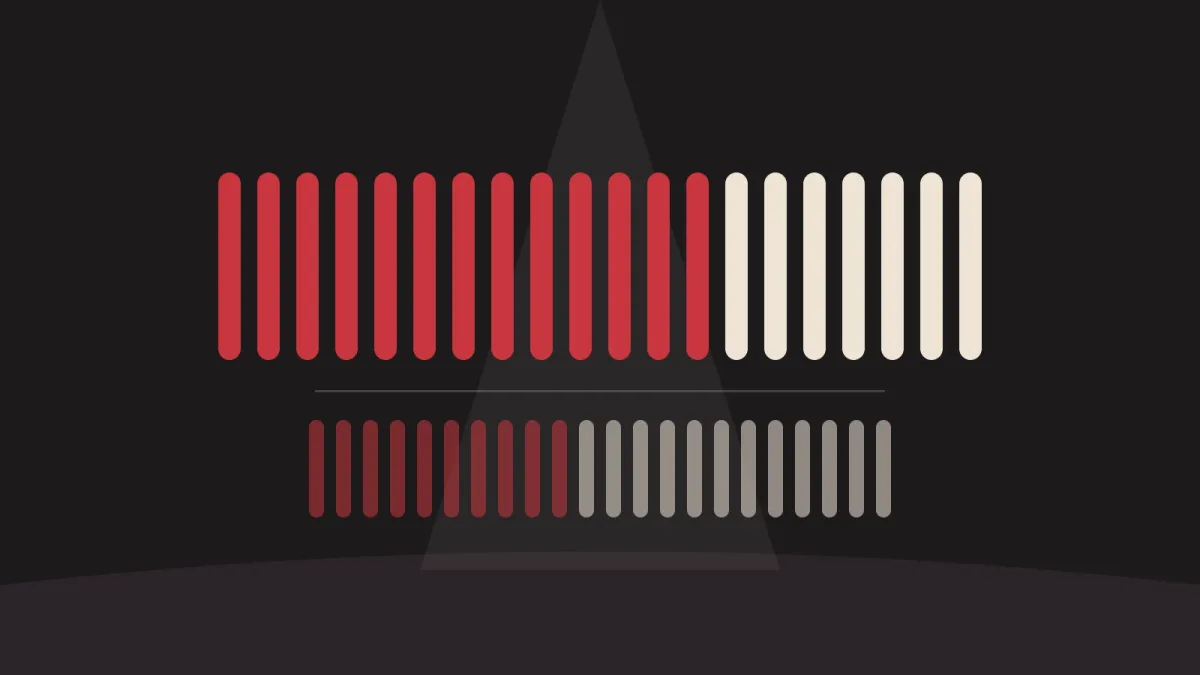
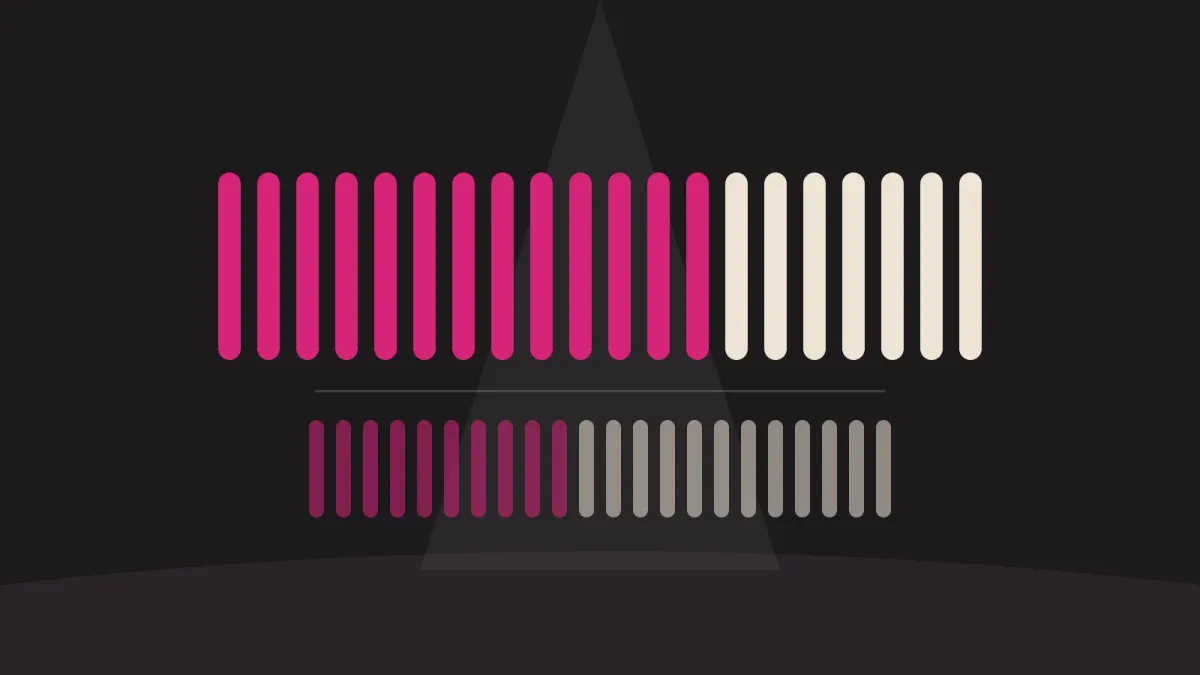
LiSA 小巨蛋歌單文章加入洋紅白名單，恢復洋紅封面與 accentColor

Changed region(s): [[0.1542, 0.2489, 0.6167, 0.5289], [0.2467, 0.6222, 0.4933, 0.7778]]

diff --git a/assets/main.min.js b/assets/main.min.js
@@ -1,4 +1,4 @@
-var x="/data/posts.json",oe={"AI 分析":"ai-analysis",技術開發:"tech-development",技術分析:"tech-analysis",開發哲學:"dev-philosophy",生活記事:"life-stories",商業觀察:"business-insights",文化觀察:"cultural-insights","Crossing Field":"crossing-field",シルシ:"shirushi"},U='<i class="theme-dot" aria-hidden="true"></i>',ne={light:{svg:U,text:"LIGHT"},dark:{svg:U,text:"DARK"},auto:{svg:U,text:"AUTO"}};function ae({configPath:e="/config/categories.json",fallbackMapping:t=oe,logger:n=console}={}){let r=null,o=null;return{get(){return r||t},async load(){return r||o||(o=(async()=>{try{let a=await fetch(e);if(!a.ok)throw new Error(`HTTP ${a.status}`);return r=(await a.json()).categoryMapping,r}catch(a){return n.error("無法載入分類設定，使用預設值",a),r=t,r}finally{o=null}})(),o)}}}function se({onThemeApplied:e}={}){return{STORAGE_KEY:"theme-preference",THEMES:["light","dark","auto"],init(){let t=localStorage.getItem(this.STORAGE_KEY)||"auto";this.setTheme(t,!1),window.matchMedia("(prefers-color-scheme: dark)").addEventListener("change",()=>{this.getCurrentTheme()==="auto"&&(this.applyTheme(),e&&e(this))})},getCurrentTheme(){return localStorage.getItem(this.STORAGE_KEY)||"auto"},setTheme(t,n=!0){this.THEMES.includes(t)||(t="auto"),n&&localStorage.setItem(this.STORAGE_KEY,t),this.applyTheme(),this.updateToggleButton(),e&&e(this)},applyTheme(){let t=this.getCurrentTheme(),n=document.documentElement;t==="auto"?n.removeAttribute("data-theme"):n.setAttribute("data-theme",t)},toggle(){let t=this.getCurrentTheme(),r=(this.THEMES.indexOf(t)+1)%this.THEMES.length,o=this.THEMES[r];this.setTheme(o)},updateToggleButton(){let t=document.querySelector(".theme-toggle");if(!t)return;let n=this.getCurrentTheme(),r=t.querySelector(".theme-toggle__icon"),o=t.querySelector(".theme-toggle__text"),a=ne[n]||ne.auto;r&&(r.innerHTML=a.svg),o&&(o.textContent=a.text)}}}function ie({postsJsonPath:e=x,loadCategoryMapping:t,logger:n=console}={}){return async function(o){o&&o.preventDefault();try{let i=await(await fetch(e)).json();if(!i||i.length===0){n.warn("沒有可用的文章");return}let s=Math.floor(Math.random()*i.length),c=i[s],m=`/${(await t())[c.category]||"uncategorized"}/${c.slug}/`;window.location.href=m}catch(a){n.error("載入隨機文章失敗",a)}}}function ce(){let e=new Intl.DateTimeFormat("en-US",{year:"numeric",timeZone:"Asia/Taipei"}).format(new Date);document.querySelectorAll("[data-footer-year]").forEach(t=>{t.textContent!==e&&(t.textContent=e)})}function le(e=document.querySelector(".aside-toc:not([hidden])")){if(!e||e.dataset.highlightReady==="true"||!("IntersectionObserver"in window))return;let t=Array.from(e.querySelectorAll('a[href^="#"]')).map(s=>{let c=s.getAttribute("href").slice(1);try{c=decodeURIComponent(c)}catch{}return{link:s,target:document.getElementById(c)}}).filter(s=>s.target);if(!t.length)return;e.dataset.highlightReady="true";let n=-1,r=s=>{if(e.scrollHeight<=e.clientHeight)return;let c=s.offsetTop,l=c+s.offsetHeight;(c<e.scrollTop||l>e.scrollTop+e.clientHeight)&&(e.scrollTop=Math.max(0,c-e.clientHeight/3))},o=()=>{let s=window.innerHeight*.3,c=-1,d=window.innerHeight+window.scrollY>=document.documentElement.scrollHeight-2?window.innerHeight:s;t.forEach((m,u)=>{m.target.getBoundingClientRect().top<=d&&(c=u)}),c!==n&&(t[n]&&t[n].link.classList.remove("is-current"),n=c,t[n]&&(t[n].link.classList.add("is-current"),r(t[n].link)))},a=new IntersectionObserver(o,{rootMargin:"0px 0px -70% 0px",threshold:0});t.forEach(s=>a.observe(s.target));let i=document.querySelector(".site-footer");i&&new IntersectionObserver(o,{threshold:[0,1]}).observe(i),window.addEventListener("scrollend",o,{passive:!0}),o()}function re(e,t=10,n=20){let r=Number.parseInt(e,10);return!Number.isFinite(r)||r<=0?t:Math.min(r,n)}function $e(e,t){return`/${t[e.category]||"uncategorized"}/${e.slug}/`}function B(e,t){let n=$e(e,t);return{slug:e.slug,title:e.title,summary:e.summary,category:e.category,tags:e.tags||[],publishedAt:e.publishedAt,updatedAt:e.updatedAt||e.publishedAt,url:new URL(n,window.location.origin).href,markdownUrl:new URL(`/content/posts/${e.slug}.md`,window.location.origin).href}}async function qe(e=x){let t=await fetch(e);if(!t.ok)throw new Error(`Unable to load posts catalog: HTTP ${t.status}`);let n=await t.json();if(!Array.isArray(n))throw new Error("Invalid posts catalog");return n}function Re(e,t){let n=String(t||"").trim().toLowerCase();return n?[e.title,e.summary,e.category,...Array.isArray(e.tags)?e.tags:[]].some(o=>String(o||"").toLowerCase().includes(n)):!0}function de({postsJsonPath:e=x,loadCategoryMapping:t,logger:n=console}={}){let r=navigator.modelContext;if(!r)return;let o=typeof r.registerTool=="function",a=typeof r.provideContext=="function";if(!o&&!a)return;let i=new AbortController,s=async l=>{let[d,m]=await Promise.all([qe(e),t?t():Promise.resolve(oe)]);return l(d,m)},c=[{name:"search_posts",description:"Search public b-log posts by title, summary, category, or tag.",inputSchema:{type:"object",properties:{query:{type:"string",description:"Search query."},limit:{type:"integer",minimum:1,maximum:20,description:"Maximum number of results to return."}},required:["query"],additionalProperties:!1},execute:async({query:l,limit:d}={})=>s((m,u)=>{let f=re(d),h=m.filter(g=>Re(g,l)).slice(0,f).map(g=>B(g,u));return{query:l,count:h.length,posts:h}})},{name:"get_latest_posts",description:"Return the latest public b-log posts with canonical URLs and Markdown URLs.",inputSchema:{type:"object",properties:{limit:{type:"integer",minimum:1,maximum:20,description:"Maximum number of posts to return."}},additionalProperties:!1},execute:async({limit:l}={})=>s((d,m)=>{let u=re(l,10);return{count:Math.min(d.length,u),posts:d.slice(0,u).map(f=>B(f,m))}})},{name:"get_post_markdown",description:"Fetch the raw Markdown source for a public b-log post.",inputSchema:{type:"object",properties:{slug:{type:"string",pattern:"^[a-z0-9-]+$",description:"Post slug."}},required:["slug"],additionalProperties:!1},execute:async({slug:l}={})=>{if(!/^[a-z0-9-]+$/.test(l||""))throw new Error("Invalid slug");return s(async(d,m)=>{let u=d.find(h=>h.slug===l);if(!u)throw new Error("Post not found");let f=await fetch(`/content/posts/${l}.md`);if(!f.ok)throw new Error(`Unable to load Markdown: HTTP ${f.status}`);return{post:B(u,m),markdown:await f.text()}})}},{name:"get_site_resources",description:"Return machine-readable resources available for agents on b-log.",inputSchema:{type:"object",properties:{},additionalProperties:!1},execute:async()=>({resources:[{rel:"api-catalog",url:new URL("/.well-known/api-catalog",window.location.origin).href},{rel:"service-desc",url:new URL("/.well-known/openapi.json",window.location.origin).href},{rel:"service-doc",url:new URL("/docs/agent-api.md",window.location.origin).href},{rel:"agent-skills",url:new URL("/.well-known/agent-skills/index.json",window.location.origin).href},{rel:"posts-catalog",url:new URL("/data/posts.json",window.location.origin).href},{rel:"json-feed",url:new URL("/feed.json",window.location.origin).href},{rel:"sitemap",url:new URL("/sitemap.xml",window.location.origin).href}]})}];if(o)for(let l of c)try{r.registerTool(l,{signal:i.signal})}catch(d){n.warn(`[webmcp] failed to register ${l.name}`,d)}else if(a)try{r.provideContext({tools:c},{signal:i.signal})}catch(l){n.warn("[webmcp] failed to provide tools",l)}window.addEventListener("pagehide",()=>i.abort(),{once:!0})}function ue({onSearch:e}={}){let t=document.querySelector(".search-toggle-btn"),n=document.querySelector(".search-box"),r=document.querySelector("#search-input"),o=document.querySelector("#search-clear");if(!r||!t||!n)return;let i=new URLSearchParams(window.location.search).get("search");i&&(r.value=i,o&&(o.hidden=!1),l()),t.addEventListener("click",m=>{m.stopPropagation(),c()});let s;r.addEventListener("input",m=>{let u=m.target.value.trim();o&&(o.hidden=!u),clearTimeout(s),s=setTimeout(()=>{e&&e(u)},300)}),o&&o.addEventListener("click",()=>{r.value="",o.hidden=!0,e&&e(""),r.focus()}),r.addEventListener("keydown",m=>{m.key==="Enter"&&(clearTimeout(s),e&&e(r.value.trim())),m.key==="Escape"&&d()}),document.addEventListener("click",m=>{!n.contains(m.target)&&!t.contains(m.target)&&(r.value.trim()||d())}),n.addEventListener("click",m=>{m.stopPropagation()});function c(){t.getAttribute("aria-expanded")==="true"?d():l()}function l(){n.hidden=!1,t.setAttribute("aria-expanded","true"),t.classList.add("active"),requestAnimationFrame(()=>{n.classList.add("expanded"),setTimeout(()=>{r.focus()},150)})}function d(){n.classList.remove("expanded"),t.setAttribute("aria-expanded","false"),t.classList.remove("active"),setTimeout(()=>{n.classList.contains("expanded")||(n.hidden=!0)},300)}}var He="/content/posts/",F="https://b-log.to",Oe="用一根手指打出來的技術分析、AI 產業觀察、與輪椅使用者的日常交鋒紀錄。",De="en-US",Ue="Asia/Taipei",G={cloudName:"dynj7181i",backgroundId:"og-background_cbst7j",fontId:"notosanstc-bold.ttf"},Be=300*1e3,Fe=20,Ge=["JAN","FEB","MAR","APR","MAY","JUN","JUL","AUG","SEP","OCT","NOV","DEC"],K={シルシ:"我和她的事","Crossing Field":"她說的話"},je=["songshan-airport-jpop-parallel-world","birthday-avatar-ai-barrier"],ze=/lisa|シルシ/i,j=14,Ve=2,Ye=`<svg viewBox="0 0 24 24" fill="currentColor" aria-hidden="true">
+var x="/data/posts.json",oe={"AI 分析":"ai-analysis",技術開發:"tech-development",技術分析:"tech-analysis",開發哲學:"dev-philosophy",生活記事:"life-stories",商業觀察:"business-insights",文化觀察:"cultural-insights","Crossing Field":"crossing-field",シルシ:"shirushi"},U='<i class="theme-dot" aria-hidden="true"></i>',ne={light:{svg:U,text:"LIGHT"},dark:{svg:U,text:"DARK"},auto:{svg:U,text:"AUTO"}};function ae({configPath:e="/config/categories.json",fallbackMapping:t=oe,logger:n=console}={}){let r=null,o=null;return{get(){return r||t},async load(){return r||o||(o=(async()=>{try{let a=await fetch(e);if(!a.ok)throw new Error(`HTTP ${a.status}`);return r=(await a.json()).categoryMapping,r}catch(a){return n.error("無法載入分類設定，使用預設值",a),r=t,r}finally{o=null}})(),o)}}}function se({onThemeApplied:e}={}){return{STORAGE_KEY:"theme-preference",THEMES:["light","dark","auto"],init(){let t=localStorage.getItem(this.STORAGE_KEY)||"auto";this.setTheme(t,!1),window.matchMedia("(prefers-color-scheme: dark)").addEventListener("change",()=>{this.getCurrentTheme()==="auto"&&(this.applyTheme(),e&&e(this))})},getCurrentTheme(){return localStorage.getItem(this.STORAGE_KEY)||"auto"},setTheme(t,n=!0){this.THEMES.includes(t)||(t="auto"),n&&localStorage.setItem(this.STORAGE_KEY,t),this.applyTheme(),this.updateToggleButton(),e&&e(this)},applyTheme(){let t=this.getCurrentTheme(),n=document.documentElement;t==="auto"?n.removeAttribute("data-theme"):n.setAttribute("data-theme",t)},toggle(){let t=this.getCurrentTheme(),r=(this.THEMES.indexOf(t)+1)%this.THEMES.length,o=this.THEMES[r];this.setTheme(o)},updateToggleButton(){let t=document.querySelector(".theme-toggle");if(!t)return;let n=this.getCurrentTheme(),r=t.querySelector(".theme-toggle__icon"),o=t.querySelector(".theme-toggle__text"),a=ne[n]||ne.auto;r&&(r.innerHTML=a.svg),o&&(o.textContent=a.text)}}}function ie({postsJsonPath:e=x,loadCategoryMapping:t,logger:n=console}={}){return async function(o){o&&o.preventDefault();try{let i=await(await fetch(e)).json();if(!i||i.length===0){n.warn("沒有可用的文章");return}let s=Math.floor(Math.random()*i.length),c=i[s],m=`/${(await t())[c.category]||"uncategorized"}/${c.slug}/`;window.location.href=m}catch(a){n.error("載入隨機文章失敗",a)}}}function ce(){let e=new Intl.DateTimeFormat("en-US",{year:"numeric",timeZone:"Asia/Taipei"}).format(new Date);document.querySelectorAll("[data-footer-year]").forEach(t=>{t.textContent!==e&&(t.textContent=e)})}function le(e=document.querySelector(".aside-toc:not([hidden])")){if(!e||e.dataset.highlightReady==="true"||!("IntersectionObserver"in window))return;let t=Array.from(e.querySelectorAll('a[href^="#"]')).map(s=>{let c=s.getAttribute("href").slice(1);try{c=decodeURIComponent(c)}catch{}return{link:s,target:document.getElementById(c)}}).filter(s=>s.target);if(!t.length)return;e.dataset.highlightReady="true";let n=-1,r=s=>{if(e.scrollHeight<=e.clientHeight)return;let c=s.offsetTop,l=c+s.offsetHeight;(c<e.scrollTop||l>e.scrollTop+e.clientHeight)&&(e.scrollTop=Math.max(0,c-e.clientHeight/3))},o=()=>{let s=window.innerHeight*.3,c=-1,d=window.innerHeight+window.scrollY>=document.documentElement.scrollHeight-2?window.innerHeight:s;t.forEach((m,u)=>{m.target.getBoundingClientRect().top<=d&&(c=u)}),c!==n&&(t[n]&&t[n].link.classList.remove("is-current"),n=c,t[n]&&(t[n].link.classList.add("is-current"),r(t[n].link)))},a=new IntersectionObserver(o,{rootMargin:"0px 0px -70% 0px",threshold:0});t.forEach(s=>a.observe(s.target));let i=document.querySelector(".site-footer");i&&new IntersectionObserver(o,{threshold:[0,1]}).observe(i),window.addEventListener("scrollend",o,{passive:!0}),o()}function re(e,t=10,n=20){let r=Number.parseInt(e,10);return!Number.isFinite(r)||r<=0?t:Math.min(r,n)}function $e(e,t){return`/${t[e.category]||"uncategorized"}/${e.slug}/`}function B(e,t){let n=$e(e,t);return{slug:e.slug,title:e.title,summary:e.summary,category:e.category,tags:e.tags||[],publishedAt:e.publishedAt,updatedAt:e.updatedAt||e.publishedAt,url:new URL(n,window.location.origin).href,markdownUrl:new URL(`/content/posts/${e.slug}.md`,window.location.origin).href}}async function qe(e=x){let t=await fetch(e);if(!t.ok)throw new Error(`Unable to load posts catalog: HTTP ${t.status}`);let n=await t.json();if(!Array.isArray(n))throw new Error("Invalid posts catalog");return n}function Re(e,t){let n=String(t||"").trim().toLowerCase();return n?[e.title,e.summary,e.category,...Array.isArray(e.tags)?e.tags:[]].some(o=>String(o||"").toLowerCase().includes(n)):!0}function de({postsJsonPath:e=x,loadCategoryMapping:t,logger:n=console}={}){let r=navigator.modelContext;if(!r)return;let o=typeof r.registerTool=="function",a=typeof r.provideContext=="function";if(!o&&!a)return;let i=new AbortController,s=async l=>{let[d,m]=await Promise.all([qe(e),t?t():Promise.resolve(oe)]);return l(d,m)},c=[{name:"search_posts",description:"Search public b-log posts by title, summary, category, or tag.",inputSchema:{type:"object",properties:{query:{type:"string",description:"Search query."},limit:{type:"integer",minimum:1,maximum:20,description:"Maximum number of results to return."}},required:["query"],additionalProperties:!1},execute:async({query:l,limit:d}={})=>s((m,u)=>{let f=re(d),h=m.filter(g=>Re(g,l)).slice(0,f).map(g=>B(g,u));return{query:l,count:h.length,posts:h}})},{name:"get_latest_posts",description:"Return the latest public b-log posts with canonical URLs and Markdown URLs.",inputSchema:{type:"object",properties:{limit:{type:"integer",minimum:1,maximum:20,description:"Maximum number of posts to return."}},additionalProperties:!1},execute:async({limit:l}={})=>s((d,m)=>{let u=re(l,10);return{count:Math.min(d.length,u),posts:d.slice(0,u).map(f=>B(f,m))}})},{name:"get_post_markdown",description:"Fetch the raw Markdown source for a public b-log post.",inputSchema:{type:"object",properties:{slug:{type:"string",pattern:"^[a-z0-9-]+$",description:"Post slug."}},required:["slug"],additionalProperties:!1},execute:async({slug:l}={})=>{if(!/^[a-z0-9-]+$/.test(l||""))throw new Error("Invalid slug");return s(async(d,m)=>{let u=d.find(h=>h.slug===l);if(!u)throw new Error("Post not found");let f=await fetch(`/content/posts/${l}.md`);if(!f.ok)throw new Error(`Unable to load Markdown: HTTP ${f.status}`);return{post:B(u,m),markdown:await f.text()}})}},{name:"get_site_resources",description:"Return machine-readable resources available for agents on b-log.",inputSchema:{type:"object",properties:{},additionalProperties:!1},execute:async()=>({resources:[{rel:"api-catalog",url:new URL("/.well-known/api-catalog",window.location.origin).href},{rel:"service-desc",url:new URL("/.well-known/openapi.json",window.location.origin).href},{rel:"service-doc",url:new URL("/docs/agent-api.md",window.location.origin).href},{rel:"agent-skills",url:new URL("/.well-known/agent-skills/index.json",window.location.origin).href},{rel:"posts-catalog",url:new URL("/data/posts.json",window.location.origin).href},{rel:"json-feed",url:new URL("/feed.json",window.location.origin).href},{rel:"sitemap",url:new URL("/sitemap.xml",window.location.origin).href}]})}];if(o)for(let l of c)try{r.registerTool(l,{signal:i.signal})}catch(d){n.warn(`[webmcp] failed to register ${l.name}`,d)}else if(a)try{r.provideContext({tools:c},{signal:i.signal})}catch(l){n.warn("[webmcp] failed to provide tools",l)}window.addEventListener("pagehide",()=>i.abort(),{once:!0})}function ue({onSearch:e}={}){let t=document.querySelector(".search-toggle-btn"),n=document.querySelector(".search-box"),r=document.querySelector("#search-input"),o=document.querySelector("#search-clear");if(!r||!t||!n)return;let i=new URLSearchParams(window.location.search).get("search");i&&(r.value=i,o&&(o.hidden=!1),l()),t.addEventListener("click",m=>{m.stopPropagation(),c()});let s;r.addEventListener("input",m=>{let u=m.target.value.trim();o&&(o.hidden=!u),clearTimeout(s),s=setTimeout(()=>{e&&e(u)},300)}),o&&o.addEventListener("click",()=>{r.value="",o.hidden=!0,e&&e(""),r.focus()}),r.addEventListener("keydown",m=>{m.key==="Enter"&&(clearTimeout(s),e&&e(r.value.trim())),m.key==="Escape"&&d()}),document.addEventListener("click",m=>{!n.contains(m.target)&&!t.contains(m.target)&&(r.value.trim()||d())}),n.addEventListener("click",m=>{m.stopPropagation()});function c(){t.getAttribute("aria-expanded")==="true"?d():l()}function l(){n.hidden=!1,t.setAttribute("aria-expanded","true"),t.classList.add("active"),requestAnimationFrame(()=>{n.classList.add("expanded"),setTimeout(()=>{r.focus()},150)})}function d(){n.classList.remove("expanded"),t.setAttribute("aria-expanded","false"),t.classList.remove("active"),setTimeout(()=>{n.classList.contains("expanded")||(n.hidden=!0)},300)}}var He="/content/posts/",F="https://b-log.to",Oe="用一根手指打出來的技術分析、AI 產業觀察、與輪椅使用者的日常交鋒紀錄。",De="en-US",Ue="Asia/Taipei",G={cloudName:"dynj7181i",backgroundId:"og-background_cbst7j",fontId:"notosanstc-bold.ttf"},Be=300*1e3,Fe=20,Ge=["JAN","FEB","MAR","APR","MAY","JUN","JUL","AUG","SEP","OCT","NOV","DEC"],K={シルシ:"我和她的事","Crossing Field":"她說的話"},je=["songshan-airport-jpop-parallel-world","birthday-avatar-ai-barrier","lisa-taipei-arena-setlist-anime-ratio"],ze=/lisa|シルシ/i,j=14,Ve=2,Ye=`<svg viewBox="0 0 24 24" fill="currentColor" aria-hidden="true">
   <path d="M12 3v9.28c-.47-.17-.97-.28-1.5-.28C8.01 12 6 14.01 6 16.5S8.01 21 10.5 21c2.31 0 4.2-1.75 4.45-4H15V6h4V3h-7z"/>
 </svg>`,E=0,S=[],z=null,Ce=ae(),M=null,$=0,I=null,k=null,me=0,pe=new Map,Y=()=>Ce.load(),J=()=>Ce.get();async function Se(e){try{let t=await e.arrayBuffer();return new TextDecoder("utf-8",{fatal:!0}).decode(t)}catch(t){let n=t instanceof Error?t.message:String(t);throw new Error(`UTF-8 decode failed: ${n}`)}}var q=se({onThemeApplied:()=>{window.GiscusManager&&window.GiscusManager.scriptLoaded&&window.GiscusManager.updateTheme()}});window.ThemeManager=q;var Te={CONFIG:{repo:"jason5545/b-log",repoId:"R_kgDOQC92wg",category:"Announcements",categoryId:"DIC_kwDOQC92ws4C02BV",mapping:"pathname",strict:"0",reactionsEnabled:"1",emitMetadata:"0",inputPosition:"top",lang:"zh-TW",loading:"lazy"},initialized:!1,scriptLoaded:!1,getEffectiveTheme(){let e=q.getCurrentTheme();return e==="auto"?window.matchMedia("(prefers-color-scheme: dark)").matches?"dark":"light":e},getGiscusTheme(){return this.getEffectiveTheme()==="dark"?"dark":"light"},init(){if(this.initialized)return;let e=document.getElementById("giscus-container");if(!e)return;if(this.initialized=!0,(()=>{let r=e.getBoundingClientRect();return r.top<window.innerHeight+200&&r.bottom>-200})()){this.loadScript(),this.setupThemeListener();return}let n=new IntersectionObserver(r=>{r.forEach(o=>{o.isIntersecting&&(this.loadScript(),n.disconnect())})},{rootMargin:"200px 0px",threshold:0});n.observe(e),this.setupThemeListener()},loadScript(){if(this.scriptLoaded)return;let e=document.getElementById("giscus-container"),t=document.getElementById("giscus-loading"),n=document.getElementById("giscus-fallback"),r=document.createElement("script");r.src="https://giscus.app/client.js",r.async=!0,r.crossOrigin="anonymous",r.setAttribute("data-repo",this.CONFIG.repo),r.setAttribute("data-repo-id",this.CONFIG.repoId),r.setAttribute("data-category",this.CONFIG.category),r.setAttribute("data-category-id",this.CONFIG.categoryId),r.setAttribute("data-mapping",this.CONFIG.mapping),r.setAttribute("data-strict",this.CONFIG.strict),r.setAttribute("data-reactions-enabled",this.CONFIG.reactionsEnabled),r.setAttribute("data-emit-metadata",this.CONFIG.emitMetadata),r.setAttribute("data-input-position",this.CONFIG.inputPosition),r.setAttribute("data-theme",this.getGiscusTheme()),r.setAttribute("data-lang",this.CONFIG.lang),r.setAttribute("data-loading",this.CONFIG.loading),r.onload=()=>{this.scriptLoaded=!0,t&&(t.style.display="none")},r.onerror=()=>{console.error("Giscus 載入失敗"),t&&(t.style.display="none"),n&&(n.hidden=!1)},e.appendChild(r)},setupThemeListener(){window.matchMedia("(prefers-color-scheme: dark)").addEventListener("change",()=>{q.getCurrentTheme()==="auto"&&this.updateTheme()}),new MutationObserver(n=>{n.forEach(r=>{r.type==="attributes"&&r.attributeName==="data-theme"&&this.updateTheme()})}).observe(document.documentElement,{attributes:!0,attributeFilter:["data-theme"]})},updateTheme(){let e=document.querySelector("iframe.giscus-frame");if(!e||!e.contentWindow)return;let t=this.getGiscusTheme();e.contentWindow.postMessage({giscus:{setConfig:{theme:t}}},"https://giscus.app")}};window.GiscusManager=Te;var We=ie({loadCategoryMapping:Y});window.goToRandomPost=We;var Le={STORAGE_KEY:"birthday-banner-closed",BIRTHDAY_MONTH:12,init(){new Date().getMonth()+1===this.BIRTHDAY_MONTH&&(this.activateTheme(),this.calculateYearlyStats())},activateTheme(){if(document.querySelectorAll(".birthday-theme").forEach(t=>{t.classList.add("is-active"),t.hidden=!1}),localStorage.getItem(this.STORAGE_KEY)==="true"){let t=document.getElementById("birthday-banner");t&&(t.hidden=!0,t.classList.remove("is-active"))}},closeBanner(){let e=document.getElementById("birthday-banner");e&&(e.hidden=!0,e.classList.remove("is-active"),localStorage.setItem(this.STORAGE_KEY,"true"))},async calculateYearlyStats(){try{let e=await Q(),t=new Date().getFullYear(),n=e.filter(c=>new Date(c.publishedAt).getFullYear()===t),r=n.length,o=n.filter(c=>c.hasAudio).length,a={};n.forEach(c=>{let l=c.category||"未分類";a[l]=(a[l]||0)+1});let i=Object.keys(a).length,s=0;n.forEach(c=>{if(c.readingTime){let l=parseInt(c.readingTime)||0;s+=l*200}}),this.updateStatsDOM({totalPosts:r,totalWords:s,audioPosts:o,totalCategories:i,categoryStats:a,currentYear:t})}catch(e){console.error("[BirthdayTheme] Failed to calculate yearly stats:",e)}},updateStatsDOM(e){let t=document.querySelector(".yearly-stats__year");t&&(t.textContent=e.currentYear);let n=document.getElementById("stats-total-posts");n&&(n.textContent=e.totalPosts);let r=document.getElementById("stats-total-words");if(r){let s=e.totalWords>=1e3?(e.totalWords/1e3).toFixed(1)+"k":e.totalWords;r.textContent=s}let o=document.getElementById("stats-audio-posts");o&&(o.textContent=e.audioPosts);let a=document.getElementById("stats-categories");a&&(a.textContent=e.totalCategories);let i=document.getElementById("stats-category-list");i&&(i.innerHTML="",Object.entries(e.categoryStats).sort((c,l)=>l[1]-c[1]).forEach(([c,l])=>{let d=document.createElement("span");d.className="yearly-stats__category",d.innerHTML=`
           ${c}

diff --git a/scripts/validate-content.js b/scripts/validate-content.js
@@ -25,7 +25,7 @@ const issues = {
 // 洋紅只給 LiSA（AGENTS.md）：她的兩個分類，加上分類不是她的、但 Jason 9/26 確認算她的文章。
 // HER_POST_SLUGS 在 main.js、generate-redirects.js、validate-content.js 三處要一致，下面會比對
 const HER_CATEGORIES = ['シルシ', 'Crossing Field'];
-const HER_POST_SLUGS = ['songshan-airport-jpop-parallel-world', 'birthday-avatar-ai-barrier'];
+const HER_POST_SLUGS = ['songshan-airport-jpop-parallel-world', 'birthday-avatar-ai-barrier', 'lisa-taipei-arena-setlist-anime-ratio'];
 const HER_POST_SLUG_SOURCES = ['assets/main.js', 'scripts/generate-redirects.js'];
 // 洋紅範圍：色相 285–350°、HSL 飽和度 > 35%
 const MAGENTA_HUE_MIN = 285;

diff --git a/assets/main.js b/assets/main.js
@@ -29,7 +29,7 @@ const HER_CATEGORY_HINTS = {
 };
 // 分類不是她的、但 Jason 9/26 確認算她的文章。accentColor 一律顯示洋紅。
 // 這份白名單在 main.js、generate-redirects.js、validate-content.js 三處要一致（validate 會比對）
-const HER_POST_SLUGS = ['songshan-airport-jpop-parallel-world', 'birthday-avatar-ai-barrier'];
+const HER_POST_SLUGS = ['songshan-airport-jpop-parallel-world', 'birthday-avatar-ai-barrier', 'lisa-taipei-arena-setlist-anime-ratio'];
 const HER_TAG_PATTERN = /lisa|シルシ/i;
 const TAG_CLOUD_VISIBLE_LIMIT = 14;
 // CONTENTS 目錄：內文最外層至少 2 個 h2 才顯示（跟 generate-redirects.js 同一條）

diff --git a/scripts/generate-redirects.js b/scripts/generate-redirects.js
@@ -56,7 +56,7 @@ const HER_CATEGORY_HINTS = {
 };
 // 分類不是她的、但 Jason 9/26 確認算她的文章。accentColor 一律顯示洋紅。
 // 這份白名單在 main.js、generate-redirects.js、validate-content.js 三處要一致（validate 會比對）
-const HER_POST_SLUGS = ['songshan-airport-jpop-parallel-world', 'birthday-avatar-ai-barrier'];
+const HER_POST_SLUGS = ['songshan-airport-jpop-parallel-world', 'birthday-avatar-ai-barrier', 'lisa-taipei-arena-setlist-anime-ratio'];
 const STATUS_SECTIONS = {
   resolved: { key: '已修', className: 'ok' },
   procedures: { key: '程序', className: 'proc' },

diff --git a/AGENTS.md b/AGENTS.md
@@ -77,7 +77,7 @@ Jason 2026/9/26 指定的硬規則。外觀改版方向是 Airbus ECAM 的色彩
 - `npm run validate`（[scripts/validate-content.js](scripts/validate-content.js)）會擋兩件事，判準都是色相 285–350°、HSL 飽和度 > 35%：
   - (a) `data/posts.json` 的 `accentColor` 落在這個範圍的，只准出現在她的文章。
   - (b) `assets/styles.css`、`assets/css/*.css`，以及 `index.html`、`post.html`、`about.html`、`gadgets.html` 的 inline style（`<style>` 與 `style=""`），這個範圍的色碼只准出現在 `--magenta:` 宣告。
-- 她的文章＝シルシ、Crossing Field 兩個分類，加上白名單兩篇：`songshan-airport-jpop-parallel-world`、`birthday-avatar-ai-barrier`（分類是文化觀察，Jason 9/26 確認算她的）。這些文章的 accentColor 在 LOG、BRIEFING 的左緣色籤與文章頁標題色條一律顯示 `var(--magenta)`，不用存的色碼。
+- 她的文章＝シルシ、Crossing Field 兩個分類，加上白名單三篇：`songshan-airport-jpop-parallel-world`、`birthday-avatar-ai-barrier`（分類是文化觀察，Jason 9/26 確認算她的）、`lisa-taipei-arena-setlist-anime-ratio`（分類是文化觀察，Jason 2026/10/22 確認算她的）。這些文章的 accentColor 在 LOG、BRIEFING 的左緣色籤與文章頁標題色條一律顯示 `var(--magenta)`，不用存的色碼。
 - accentColor 的份量（Jason 9/30 定）：文章頁標題上方 4px 整條；LOG、BRIEFING 只在列左緣畫 3px 短色籤，高度跟第一行一樣（LOG 是日期、BRIEFING 是分類行），不蓋滿整列，連續的列才不會接成彩色柵欄；文章頁右欄的 RELATED、LATEST 不畫，右欄的左緣色條只留給 CONTENTS 的目前章節。
 - 白名單在 `assets/main.js`、`scripts/generate-redirects.js`、`scripts/validate-content.js` 三處的 `HER_POST_SLUGS`，validate 會比對三處是否一致；要加減文章，三處一起改。
 - 她的文章在文章頁麵包屑的分類（シルシ、Crossing Field）顯示洋紅，靜態頁與 CSR 一致。
